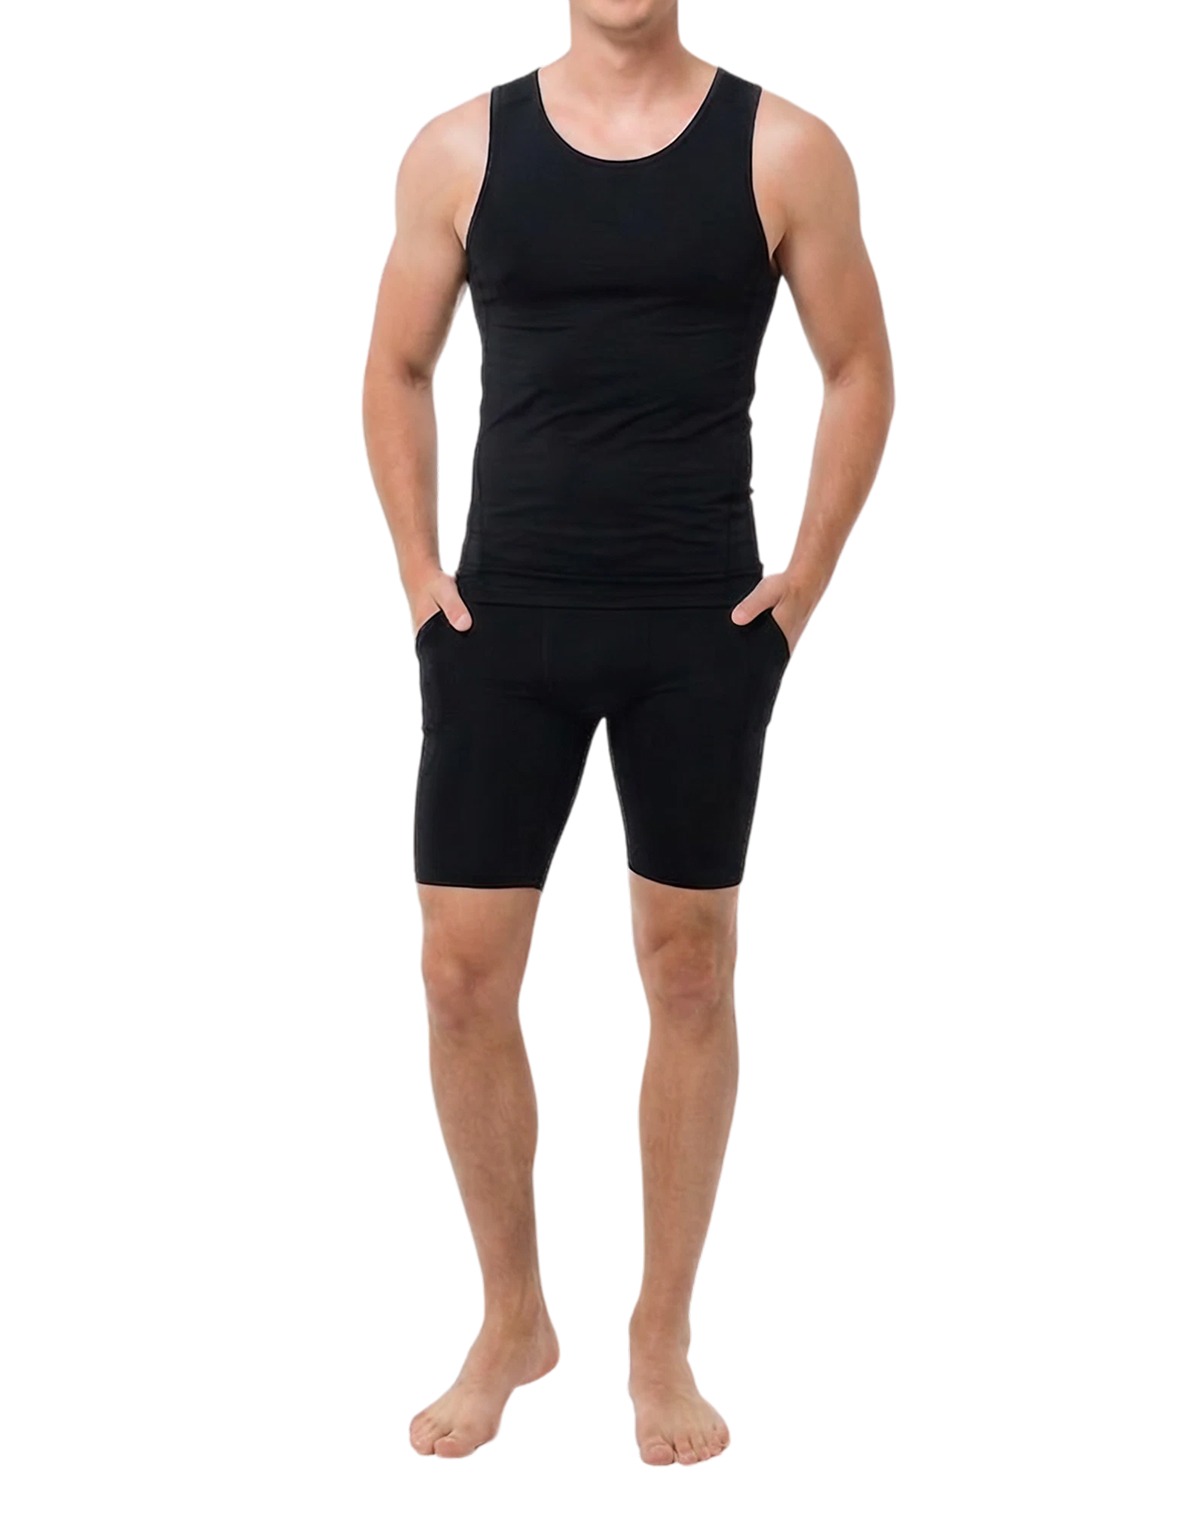
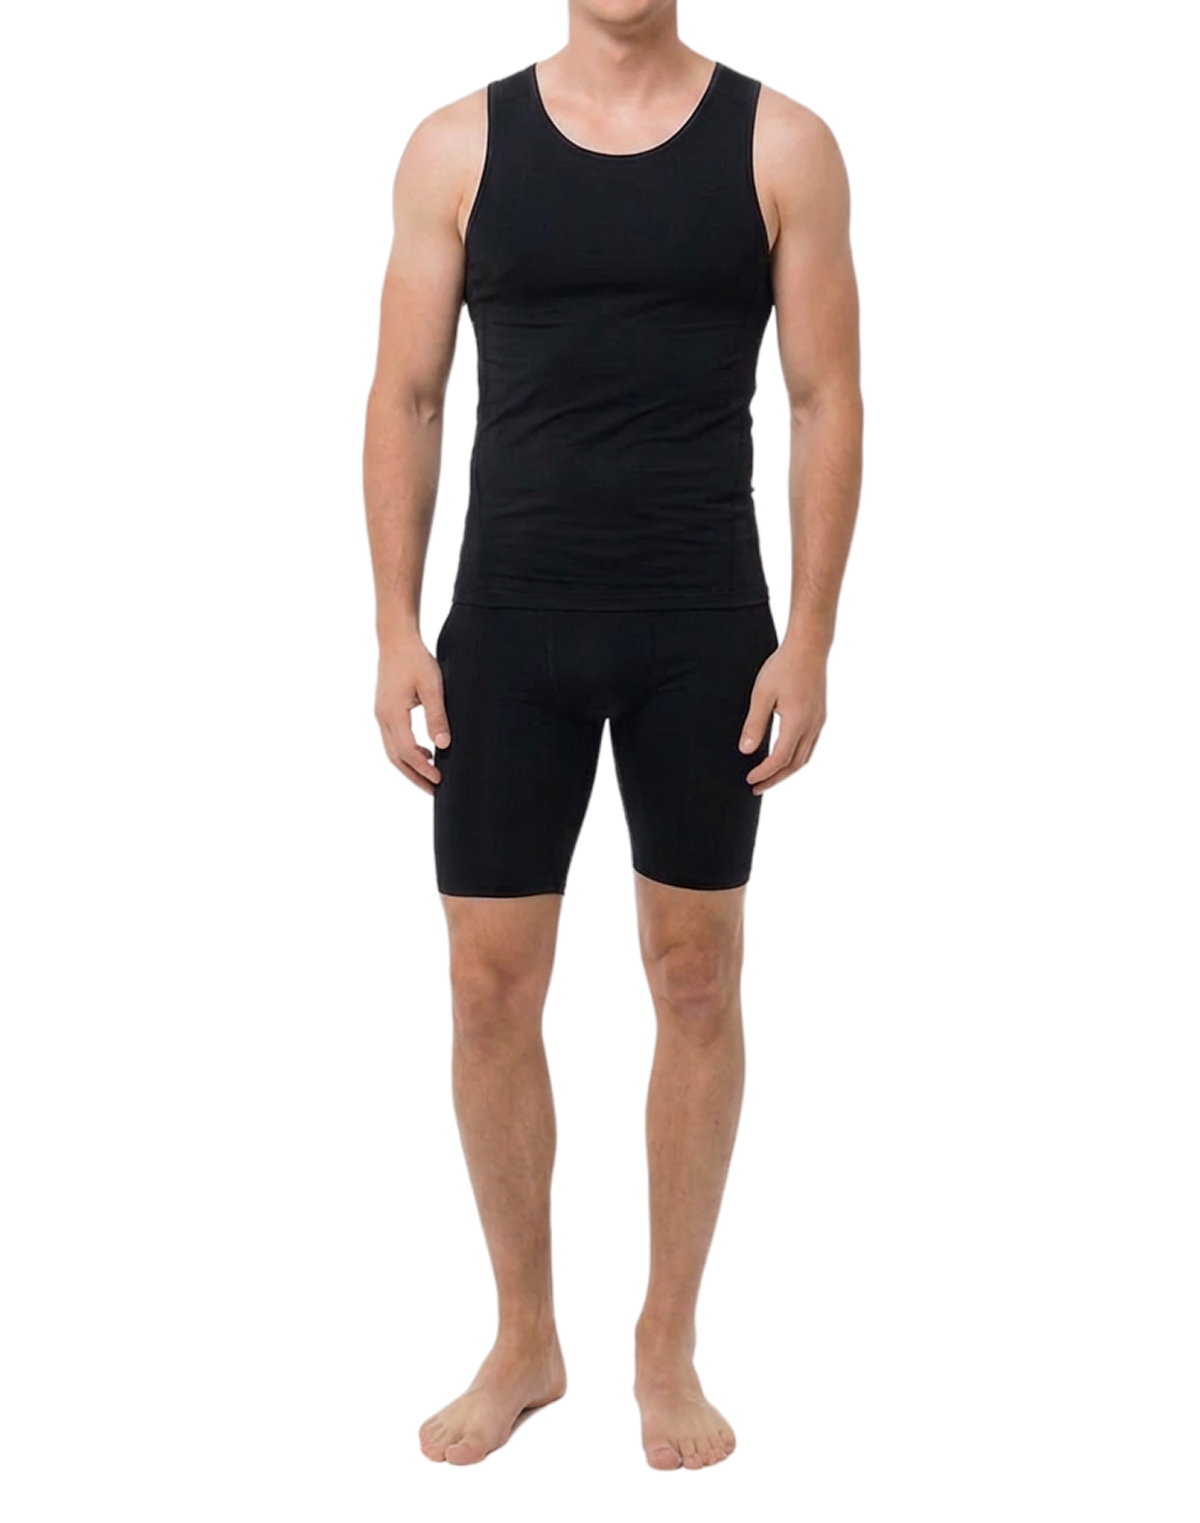
fix(tryon): use legacy Firebase-Storage man.jpg as actual model image
Phase 11 migration's setup-models-bucket.mjs uploaded the wrong
man.jpg file to Supabase Storage. Legacy app's actual Fashn-input
image was hosted in Firebase Storage; the local repo's
/public/models/man.jpg (added Mar 26 for instant-loading settings
preview) had divergent content. Migration script took the local
file as source-of-truth.

Result: new try-ons rendered against a different model figure
(hands in pockets, 291KB) than legacy's existing try-on results
(hands at sides, 345KB). Visible mismatch in the outfits feed.

Fix: downloaded correct image from
https://firebasestorage.googleapis.com/v0/b/aletela.firebasestorage.app/o/models%2Fman.jpg?alt=media
(MD5 06feb4d6..., 345,888 bytes), uploaded to Supabase Storage
models/ bucket via setup-models-bucket.mjs (upsert), replaced
apps/web/public/models/man.jpg so settings preview matches
Fashn input.

woman.jpg was unaffected — identical content across legacy
Firebase Storage, legacy repo, and new Supabase Storage.

diff --git a/docs/post-cutover-followups.md b/docs/post-cutover-followups.md
@@ -60,9 +60,11 @@ Marked `[DONE]` items are kept for historical context until the next housekeepin
   Today `outfit.generate` calls the AI gateway with `responseFormat: 'json'` — that's OpenAI's `json_object` mode (free-form JSON, schema enforced after the fact via zod). OpenAI also supports `response_format: { type: 'json_schema', schema: {...} }`, which constrains the model's sampling to the schema at generation time. Upgrading would let us express role-uniqueness (and item-id-from-set-X constraints, count constraints, etc.) structurally in one place, replacing the current three-layer prompt+dedup+constraint defense with one upstream guardrail. Refactor scope: `packages/ai/src/providers/openai.ts` would need a new `responseFormat: 'json_schema'` branch, and each capability that opts in (`outfit.generate`, `item.analyze`, potentially others) supplies a JSON Schema alongside its zod schema. Worth doing once we have ≥2 capabilities that would benefit; YAGNI for a single user right now.
   *Origin*: surfaced during the role-uniqueness session 2026-05-21 — was considered as a fix path, deferred because the three-layer defense is sufficient and the structured-outputs refactor is broader than this bug warranted.
 
-- **Try-on model selection** — P1.
-  Some try-on results come back with a male model, others female, regardless of the wardrobe owner's gender. Root cause unknown — could be Fashn API defaults, our `model_image_url` selection logic, or the migrated `tryOnSettings`. Investigate + fix the inconsistency.
-  *Origin*: Phase 11 deployment session summary.
+- **Try-on model selection** — `[DONE 2026-05-26]`.
+  ~~Some try-on results come back with a male model, others female, regardless of the wardrobe owner's gender. Root cause unknown — could be Fashn API defaults, our `model_image_url` selection logic, or the migrated `tryOnSettings`.~~
+
+  Mis-diagnosed in original filing — model SELECTION logic worked correctly. Actual root cause: `man.jpg` model IMAGE was wrong file in Supabase Storage. Legacy used a Firebase-Storage-hosted `man.jpg` (`06feb4d6…`, 345KB, hands at sides) as Fashn input; `setup-models-bucket.mjs` migration uploaded the local repo's `/public/models/man.jpg` (`18e0b710…`, 291KB, hands in pockets — a Mar-26-added settings preview image, NOT the actual Fashn input). Result: new try-ons rendered against a different model figure than legacy. Fix: downloaded correct image from Firebase Storage, uploaded to Supabase Storage (overwrite), also replaced `apps/web/public/models/man.jpg` so settings preview matches Fashn input. `woman.jpg` was unaffected — identical across all three locations.
+  *Origin*: Phase 11 deployment session summary; misdiagnosed wording corrected 2026-05-26.
 
 - **Try-on quality + failure handling** — P1.
   Belt-area artifacts on try-on images (Fashn AI quality, not our code), occasional outright failures, no auto-retry on Fashn errors. Improve: add retry-with-backoff on transient Fashn errors, surface clearer failure UX, evaluate whether to swap Fashn for a higher-quality provider.
